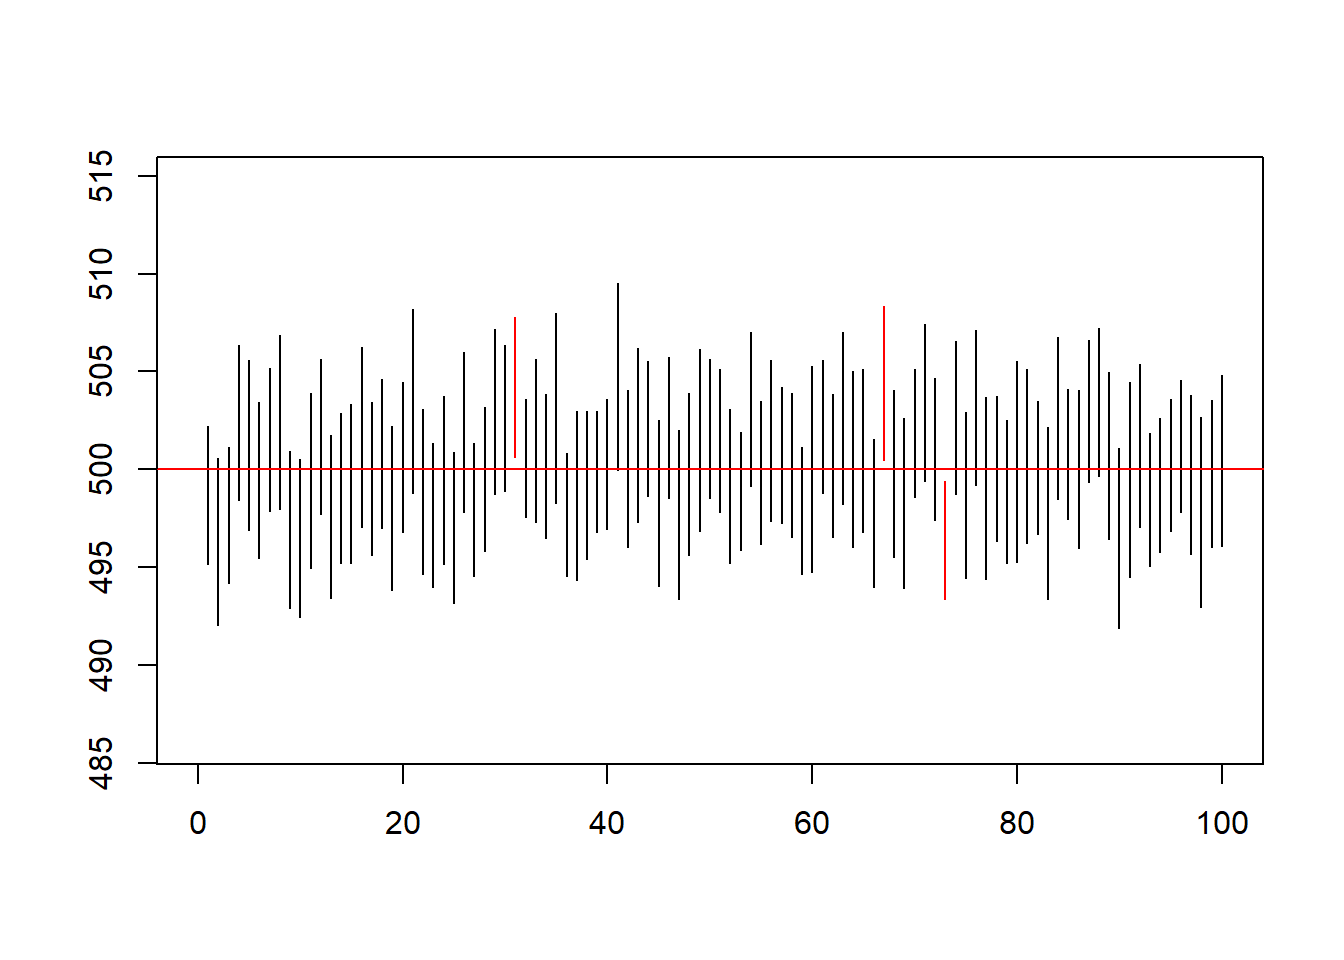
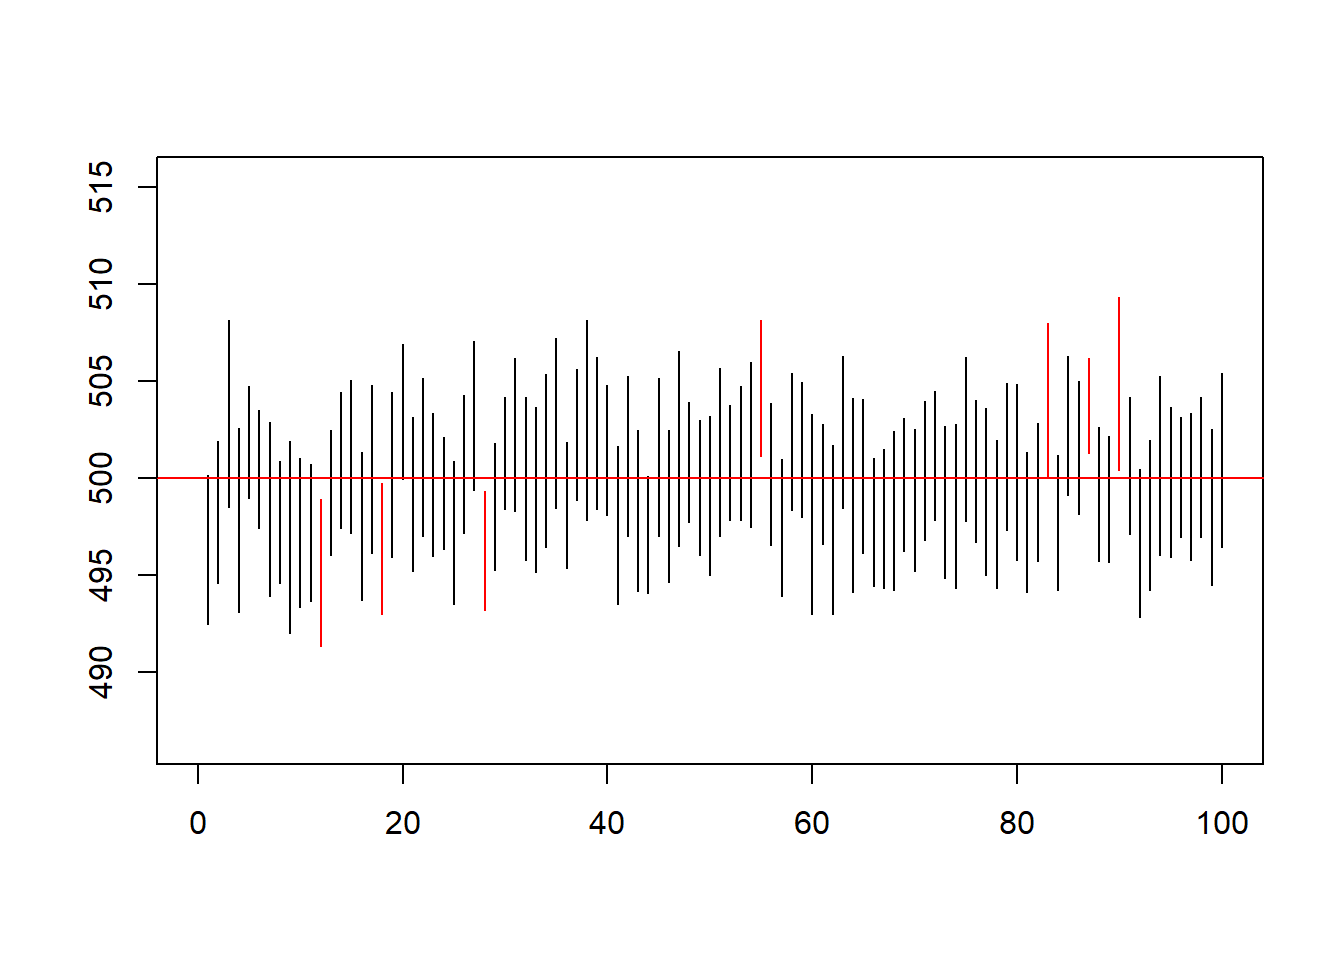
Ex 10

diff --git a/_site/Exercise10.html b/_site/Exercise10.html
@@ -423,27 +423,193 @@ $(document).ready(function() {
 </div>
 
 
-<div id="exercise-10.1" class="section level1">
-<h1>Exercise 10.1</h1>
-<p>The survival of patients was studied after some neurological surgery. <span class="math inline">\(N=50\)</span> patients were operated with scheme A and another group of <span class="math inline">\(N=50\)</span> patients were operated with scheme B. Assume that the mean survival time is three years (i.e. 36 months) under scheme A, and five years (i.e. 60 months) under scheme B, and both survival times are exponentially distributed. At the end of this study, approximately 30% of scheme A and 20% of scheme B patients have died.</p>
+<!-- For who wants to go deeper into the survival package
+https://www.emilyzabor.com/tutorials/survival_analysis_in_r_tutorial.html -->
+<div id="theory" class="section level1">
+<h1>Theory</h1>
+<p>For each subject <span class="math inline">\(i\in\{1,...,n\}\)</span> let’s define <span class="math inline">\(T_i\geq 0\)</span> the time of the event, <span class="math inline">\(C_i \geq 0\)</span> the censoring time. Let <span class="math inline">\(T\geq0\)</span> be a random variable, that we view as the time until the occurrence of death. The probability that a subject will survive till a time <span class="math inline">\(t\)</span> is <span class="math display">\[
+S(t)=Pr(T&gt;t)=1-Pr(T\leq t)\;,
+\]</span> where <span class="math inline">\(S\)</span> is called survival function. The Kaplan-Meier estimate of survival probability is define as</p>
+<p><span class="math display">\[
+\hat{S}(t)=\prod_{i:\,t_i\leq t}\left(1-\frac{d_i}{n_i}\right)\;,
+\]</span> where <span class="math inline">\(d_i\)</span> the number of deaths happened at time <span class="math inline">\(t_i\)</span> and <span class="math inline">\(n_i\)</span> the individuals known to have survived up to time <span class="math inline">\(t_i\)</span>.</p>
+</div>
+<div id="exercises" class="section level1">
+<h1>Exercises</h1>
+<div id="exercise-10.1" class="section level2">
+<h2>Exercise 10.1</h2>
+<p>The survival of patients was studied after some neurological surgery. <span class="math inline">\(N=50\)</span> patients were operated with scheme A and another group of <span class="math inline">\(N=50\)</span> patients were operated with scheme B. Assume that the mean survival time is three years (i.e. 26 months) under scheme A, and five years (i.e. 60 months) under scheme B, and both survival times are exponentially distributed. At the end of this study, approximately 30% of scheme A and 20% of scheme B patients have died.</p>
 <p>Generating fake survival data:</p>
-<pre class="r"><code>N = 50
-timesA = rexp(n=N, 1/36)
+<pre class="r"><code>set.seed(123)
+N = 50
+timesA = rexp(n=N, 1/26)
 timesB = rexp(n=N, 1/60)
 eventsA = rbinom(n=N, prob=0.3, size=1)
 eventsB = rbinom(n=N, prob=0.2, size=1)
+
 times = c(timesA, timesB)
-events = c(eventsA, eventsB)</code></pre>
+events = c(eventsA, eventsB)
+
+# times=timesA
+# events=eventsA</code></pre>
 <ol style="list-style-type: lower-alpha">
-<li><p>Analyse the data using  R package. For this purpose, firstly create a so-called survival object using  function. Later, use  to calculate Kaplan-Meier estimates of the survival function for the whole study collective. Plot the Kaplan-Meier-curve plus confidence band into a graphic. What is the probability of a patient in this study to survive more than 10 years?</p></li>
-<li><p>Analyse the effect of treatment scheme on the patient’s survival by Kaplan-Meier curves. What is the median survival time in the two groups?</p></li>
-<li><p>Assume that patients under treatment scheme A were on average a little bit older compared to patients under treatment scheme B.</p></li>
+<li>Analyse the data using <strong><tt>survival</tt></strong> R package. For this purpose, firstly create a so-called survival object using <strong><tt>Surv</tt></strong> function.</li>
+</ol>
+<div class="fold s o">
+<pre class="r"><code>library(survival)
+
+## Store survival times and event (deaths) in a survival-object.
+SURV = Surv(times, events)
+SURV</code></pre>
+<pre><code>##   [1]  21.9298888   14.9918670   34.5554266+   0.8210113+   1.4614854+
+##   [6]   8.2290316+   8.1699096    3.7769369+  70.8821481    0.7579896+
+##  [11]  26.1255815   12.4855829+   7.3063543+   9.8050636+   4.8953851+
+##  [16]  22.0944394+  40.6432920   12.4477708   15.3643057+ 105.0663045+
+##  [21]  21.9218930   25.1126515+  38.6171706   35.0491566+  30.3817536+
+##  [26]  41.7521609+  38.9153146+  40.8369662+   0.8259613+  15.5440920 
+##  [31]  56.3638334+  13.1720089+   6.7485033+  67.5191950   31.9546690+
+##  [36]  20.5577257+  16.3612820+  32.6206661+  15.3058007+  29.3615409+
+##  [41]  10.9294849+ 187.4861970+  21.9887711+   5.8640922   28.6088093+
+##  [46]  58.4559480+  35.4570918   14.9861834   70.8571721+  34.1162391 
+##  [51]   5.4354810+  18.3722310+  64.0327842+  18.8109754+  58.4784090+
+##  [56] 113.2693989+  33.8753162+ 154.6176797   62.8617449+  61.4664805+
+##  [61]  61.6721769+  17.0801076+  93.7831133+   2.5252976+   5.9178534+
+##  [66]   5.9141587   16.8231097+  17.7472175   58.3457789+  55.4416334+
+##  [71]  98.5442716+  97.1947661+ 152.1687324+  91.2929774+  22.8008522+
+##  [76]  14.3107780   27.9892454    2.5362871+  19.1806140+  38.6166552+
+##  [81]  34.3537862+  12.9633302+ 269.9204039+ 111.4254332+  41.1275183+
+##  [86]  86.3671576+ 103.8692390+  74.6869980   87.7980336   92.2436387 
+##  [91]   0.2759476+  66.5259281   17.9982191+  71.5201804+  66.8957222+
+##  [96]   4.0425535+  28.8401232+  94.2272603+  15.5967664  111.4153372+</code></pre>
+</div>
+<p>The survival-object has one entry for each subject that is the survival time, followed by <code>+</code> sign if the subject was censored.</p>
+<p>Use <strong><tt>survfit</tt></strong> to calculate Kaplan-Meier estimates of the survival function for the whole study collective. Use <strong><tt>help</tt></strong> to understand which is the argument of the <strong><tt>survfit</tt></strong> function.</p>
+<div class="fold s o">
+<pre class="r"><code>S1 = survfit(SURV ~ 1)
+S1</code></pre>
+<pre><code>## Call: survfit(formula = SURV ~ 1)
+## 
+##       n  events  median 0.95LCL 0.95UCL 
+##   100.0    25.0   154.6    74.7      NA</code></pre>
+</div>
+<p>Plot the Kaplan-Meier-curve plus confidence band into a graphic.</p>
+<div class="fold s o">
+<pre class="r"><code>#plot(SURV, conf.int = FALSE)
+plot(S1, 
+     xlab = &quot;Times (Months)&quot;, 
+     ylab = &quot;Estimated Survival Probability&quot;, 
+     cex.axis=1.5, 
+     cex.lab=1.5)
+grid()
+abline(v = 120, col = &quot;red&quot;)
+
+
+#Extra
+#raw calculation of Kaplan-Meier estimates
+test=data.frame(times=times,events=events)
+test= test[order(test$times),]
+test$n&lt;-nrow(test):1
+test= test[test$events&gt;=1,]
+
+#compute 1-d_i/n_i
+for(i in 1:nrow(test)){test$survival[i]=1-test$events[i]/test$n[i]
+}
+
+#calculate the estimate of the survivl function
+for(i in 1:nrow(test)){test$p[i]=prod(test$survival[1:i])}
+
+
+points(x=test$times,y=test$p)</code></pre>
+<p><img src="Exercise10_files/figure-html/unnamed-chunk-4-1.png" width="60%" style="display: block; margin: auto;" /></p>
+</div>
+<p>What is the probability of a patient in this study to survive more than 10 years (120 months)? (use the <strong><tt>summary</tt></strong> function )</p>
+<div class="fold s o">
+<pre class="r"><code>summary(S1, times = 120)</code></pre>
+<pre><code>## Call: survfit(formula = SURV ~ 1)
+## 
+##  time n.risk n.event survival std.err lower 95% CI upper 95% CI
+##   120      4      24    0.527  0.0836        0.387        0.719</code></pre>
+</div>
+<ol start="2" style="list-style-type: lower-alpha">
+<li>Let’s consider separately the <code>eventsA</code>and the <code>eventsB</code>.</li>
+</ol>
+<pre class="r"><code>group = gl(2, N)</code></pre>
+<p>Analyse the effect of treatment scheme on the patient’s survival by Kaplan-Meier curves. What is the median survival time in the two groups?</p>
+<div class="fold s o">
+<pre class="r"><code>S2 = survfit(SURV ~ group)
+S2</code></pre>
+<pre><code>## Call: survfit(formula = SURV ~ group)
+## 
+##          n events median 0.95LCL 0.95UCL
+## group=1 50     15   67.5    35.5      NA
+## group=2 50     10  154.6    92.2      NA</code></pre>
+</div>
+<p>Plot the Kaplan-Meier-curve of the two groups together.</p>
+<div class="fold s o">
+<pre class="r"><code>plot(S2, xlab=&quot;Times (Months)&quot;, ylab=&quot;Estimated Survival Probability&quot;, 
+     cex.axis=1.5, cex.lab=1.5, col=c(1,2))
+grid()
+legend(&quot;topright&quot;, legend=c(&quot;Group A&quot;, &quot;Group B&quot;), col = c(1, 2),
+       lty=1, cex=0.8)
+abline(h = 0.5, col = &quot;green&quot;)
+# median survival time
+abline(v = quantile(survfit(SURV ~ group), probs = 0.5)$quantile, lty = &quot;dashed&quot;)</code></pre>
+<p><img src="Exercise10_files/figure-html/unnamed-chunk-8-1.png" width="60%" style="display: block; margin: auto;" /></p>
+</div>
+<ol start="3" style="list-style-type: lower-alpha">
+<li>Assume that patients who survived more than 100 months were on average younger than the others patients.</li>
 </ol>
 <pre class="r"><code>ageA = rnorm(n = N, mean = 55, sd = 2.5)
 ageB = rnorm(n = N, mean = 50, sd = 2.5)
 age = c(ageA, ageB)
 age = (age&gt;median(age))</code></pre>
-<p>Analyse whether age at surgery has an influence on survival using Cox regression (R function ).</p>
+<p>Analyse the effect of <code>age</code> on the patient’s survival by Kaplan-Meier curves.</p>
+<div class="fold s o">
+<pre class="r"><code>S3 = survfit(SURV ~ age)
+plot(S3, xlab=&quot;Times (Months)&quot;, ylab=&quot;Estimated Survival Probability&quot;, cex.axis=1.5, cex.lab=1.5, col=c(1,2))
+legend(&quot;topright&quot;,
+       legend=c(&quot;Age &gt; Median age&quot;, &quot;Age &lt; Median age&quot;), 
+       col = c(1, 2),
+       lty=1, cex=0.8)
+
+grid()</code></pre>
+<p><img src="Exercise10_files/figure-html/unnamed-chunk-9-1.png" width="672" /></p>
+</div>
+<p>Analyse whether age at surgery has an influence on survival using Cox regression (R function <strong><tt>coxph</tt></strong>).</p>
+<!-- If someone wants to go deeper into Cox regression https://stats.stackexchange.com/questions/83892/understanding-coxph-output-in-r -->
+<div class="fold s o">
+<pre class="r"><code>C = coxph(SURV ~ group+age)
+summary(C)</code></pre>
+<pre><code>## Call:
+## coxph(formula = SURV ~ group + age)
+## 
+##   n= 100, number of events= 25 
+## 
+##            coef exp(coef) se(coef)      z Pr(&gt;|z|)  
+## group2  -1.3757    0.2527   0.5753 -2.391   0.0168 *
+## ageTRUE -0.3791    0.6845   0.5477 -0.692   0.4889  
+## ---
+## Signif. codes:  0 &#39;***&#39; 0.001 &#39;**&#39; 0.01 &#39;*&#39; 0.05 &#39;.&#39; 0.1 &#39; &#39; 1
+## 
+##         exp(coef) exp(-coef) lower .95 upper .95
+## group2     0.2527      3.958   0.08181    0.7803
+## ageTRUE    0.6845      1.461   0.23397    2.0026
+## 
+## Concordance= 0.631  (se = 0.065 )
+## Likelihood ratio test= 7.38  on 2 df,   p=0.02
+## Wald test            = 7.17  on 2 df,   p=0.03
+## Score (logrank) test = 7.71  on 2 df,   p=0.02</code></pre>
+</div>
+<p>Knowing that the R summary for the Cox model gives the hazard ratio <code>exp(coef)</code> for the second group relative to the first group, namely treatment B versus treatment A and old vs young, could you give an interpretation of the output?</p>
+<details>
+<summary>
+Solution
+</summary>
+<p>
+First look at Wald statistics. A negative <code>coef</code> means a reduction of the risk, this reduction is quantified by <code>exp(coef)</code>.
+</p>
+</details>
+</div>
 </div>
 
 

diff --git a/_site/Exercise09.html b/_site/Exercise09.html
@@ -423,8 +423,10 @@ $(document).ready(function() {
 </div>
 
 
-<div id="exercise-9.1" class="section level1">
-<h1>Exercise 9.1</h1>
+<div id="exercises" class="section level1">
+<h1>Exercises</h1>
+<div id="exercise-9.1" class="section level2">
+<h2>Exercise 9.1</h2>
 <p>The concentration of the s100b-protein was measured in <span class="math inline">\(n=113\)</span> patients. Additionally, the clinical outcome of patients was classified as either “Good” or “Poor” using a gold standard. Dataset is part of the <strong><tt>pROC</tt></strong> package.</p>
 <ol style="list-style-type: lower-alpha">
 <li>Install and load the <strong><tt>pROC</tt></strong> package. Then load the data set <strong><tt>aSAH</tt></strong> from <strong><tt>pROC</tt></strong>. This dataset summarizes clinical and laboratory variables of 113 patients with an aneurysmal subarachnoid hemorrhage.</li>
@@ -561,6 +563,7 @@ roc.test(roc_s100b, roc_ndka)</code></pre>
 ## sample estimates:
 ## AUC of roc1 AUC of roc2 
 ##   0.7313686   0.6119580</code></pre>
+</div>
 </div>
 </div>
 

diff --git a/_site/Exercise03.html b/_site/Exercise03.html
@@ -476,9 +476,9 @@ for(j in 1:10){
 M_mean&lt;-mean(M_col_mean)
 M_col_mean
 M_mean</code></pre>
-<pre><code>##  [1]  0.60494063 -0.24834768 -0.04168089 -0.37444464  0.79118650 -0.20211641
-##  [7]  0.47145402  0.43504987 -0.67413242 -0.33618592
-## [1] 0.04257231</code></pre>
+<pre><code>##  [1] -0.4877094  0.2769114  0.2738868  0.1268233 -0.0114685 -0.6754962
+##  [7] -0.1563737 -0.5957303  0.0740324 -0.3803308
+## [1] -0.1555455</code></pre>
 </div>
 <p>Plot the density function of the standard normal distribution. Using the function <strong><tt>points()</tt></strong> draw the sample means and the mean of means into the plot.</p>
 <div class="fold s o">
@@ -557,7 +557,7 @@ for(j in 1:100){
 
 # percentage of interval that contains the true value for the mean
 sum((M_conf[1,]&lt;=500 &amp; 500&lt;=M_conf[2,]))/100</code></pre>
-<pre><code>## [1] 0.97</code></pre>
+<pre><code>## [1] 0.93</code></pre>
 <pre class="r"><code>#EXTRA
 # usage of if else statement to give the color to the segments
 plot.new()
